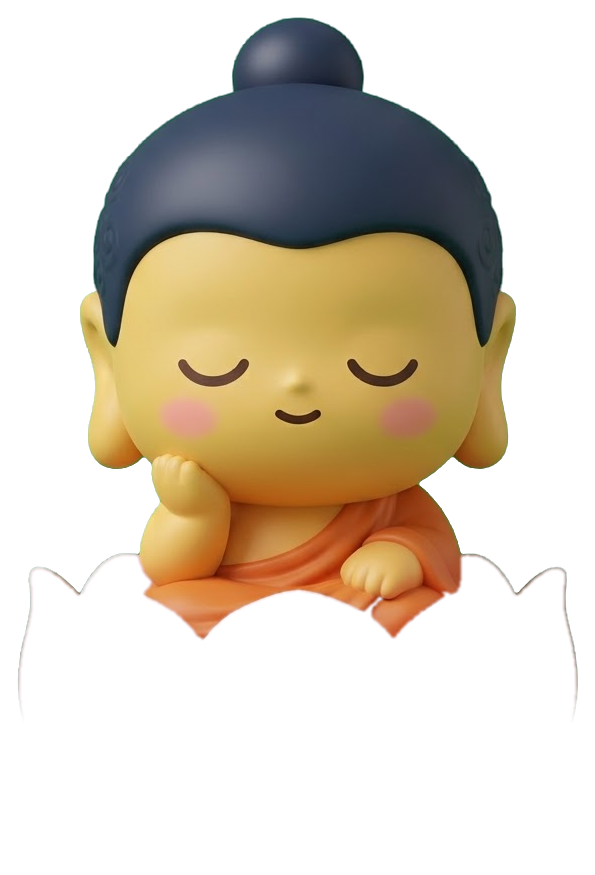
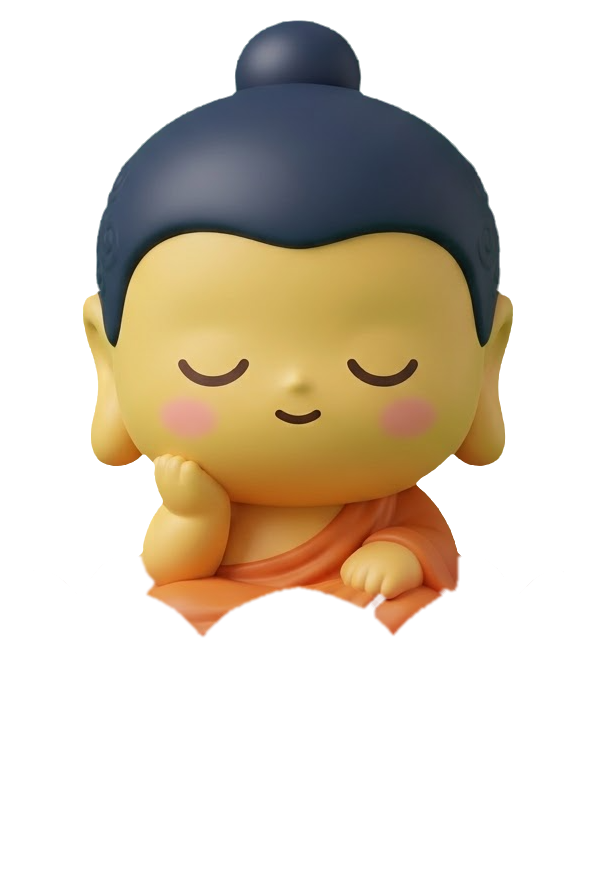
방들이 가운데로 선다 · 키캡 잿빛 테와 눌림 틈
형: 「위치 임마 이거랑 만다라랑 하심 호흡 멍 다 중앙에 정교하게」
    「저 밑에 깨지는 부분 고치고 키캡 눌렸을 때 이격 뜨는 것도 자연스럽게」

① **방이 옆으로 밀려 있었다.** 배경 덩이(.hip-bloom-b)가 오른쪽으로
   118px 삐져나와 판의 굴림 폭이 화면보다 넓었고, 갈래 띠가 「지금 방」
   알약을 보이려고 부른 scrollIntoView 가 **조상까지 전부** 굴렸다.
   방마다 알약 자리가 다르니 밀린 양도 달랐다 — 삼귀의 77, 하심 119.
   · 띠는 제 몸만 굴린다(scrollLeft 직접)
   · 판은 overflow-x: clip — hidden 은 코드로는 굴러간다, clip 은 통을
     아예 안 만든다
   두 군데를 다 막았다. 다섯 방 전부 가운데(390→195, 952→476) 확인.

② 방 알맹이가 통 안에서도 왼쪽에 붙어 있었다. .hip-room .hip-screen-mid
   를 stretch 로 두었던 탓인데, 여섯 방은 본래 **가운데로 서는 통** 안에
   쓰여 있다(불상·숫자·글귀에 가운데 정렬이 하나도 없다). center 로
   되돌리고, 통 하나로만 된 방(만다라·하심)은 폭을 꽉 펴 준다.

③ 키캡 잿빛 테 — 원화가 흰 바탕 렌더라 가장자리 두세 화소가 바탕과
   섞인 잿빛이다. 색을 고치면 또 곱창나니 **깎는다**(알파 침식 3).

④ 눌리면 꽃받침이 받는다. 부처상만 내려가서 뒤 꽃잎과 어깨 사이에 흰
   틈이 열렸다. 밑동은 붙박이로 두고 위턱만 1.8% 들어 올리면 꽃잎이
   먼저 가서 덮는다. 내려가는 폭도 3.4 → 2.4% 로.

diff --git a/src/app/api/lotus/spend/route.ts b/src/app/api/lotus/spend/route.ts
@@ -1,0 +1,102 @@
+// ─────────────────────────────────────────────────────────────
+// 연꽃을 쓴다 — 서버가 센다.
+//
+// 왜 이것이 필요한가 (적대 검토에서 나온 두 가지) —
+//
+// ① **환불 계산이 불가능했다.** 지갑이 `lotus` 정수 한 칸이라 첫 선물
+//    3송이·공덕으로 바꾼 것·돈 주고 산 것이 한 숫자에 뒤섞여 있었다.
+//    약관은 「무상분을 먼저 쓴 것으로 보고, 환불은 남은 유상분 기준」이라
+//    적어 두었는데 셈할 데이터가 없었다.
+//    → `paid`(산 것)와 `free`(받은 것)를 따로 센다. 쓸 때는 **무상분부터**.
+//
+// ② **여러 송이를 한 번에 못 뺐다.** 규칙이 「정확히 -1」만 허락해서,
+//    「연꽃 3송이」짜리 값은 코드로 아예 돌아가지 않았다.
+//    → 여러 송이 차감은 여기(서버)에서만 한다.
+//
+// 옛 지갑({lotus}만 있는 것)은 처음 손댈 때 전부 무상분으로 본다 —
+// 결제가 아직 열린 적이 없으니 그게 사실이다.
+//
+// 인증: Authorization: Bearer <파이어베이스 ID 토큰>
+// 몸통: { n: 1~10, why: "yeon-hap" 같은 짧은 까닭 }
+// ─────────────────────────────────────────────────────────────
+
+import { getAuth } from "firebase-admin/auth";
+import { FieldValue, getFirestore } from "firebase-admin/firestore";
+import { adminApp } from "@/lib/firebaseAdmin";
+import { isAdminAccount } from "@/lib/config";
+
+export const dynamic = "force-dynamic";
+export const runtime = "nodejs";
+
+export async function POST(req: Request) {
+  const app = adminApp();
+  if (!app) return Response.json({ error: "server-not-ready" }, { status: 503 });
+
+  const token = (req.headers.get("authorization") ?? "").replace(/^Bearer\s+/, "");
+  if (!token) return Response.json({ error: "no-token" }, { status: 401 });
+  let uid: string;
+  let email: string | undefined;
+  try {
+    const t = await getAuth(app).verifyIdToken(token);
+    uid = t.uid;
+    email = t.email;
+  } catch {
+    return Response.json({ error: "bad-token" }, { status: 401 });
+  }
+
+  const body = (await req.json().catch(() => null)) as
+    | { n?: unknown; why?: unknown }
+    | null;
+  const n = Math.floor(Number(body?.n ?? 1));
+  const why = typeof body?.why === "string" ? body.why.slice(0, 40) : "";
+  if (!Number.isFinite(n) || n < 1 || n > 10)
+    return Response.json({ error: "bad-count" }, { status: 400 });
+
+  // 뒷방 주인의 지갑은 줄지 않는다 — 초 켜기와 같은 셈
+  if (isAdminAccount({ uid, email }))
+    return Response.json({ ok: true, free: true, left: 999 });
+
+  const db = getFirestore(app);
+  const wallet = db.doc(`wallets/${uid}`);
+
+  try {
+    const left = await db.runTransaction(async (tx) => {
+      const s = await tx.get(wallet);
+      const d = s.exists ? s.data()! : null;
+      const lotus: number = typeof d?.lotus === "number" ? d.lotus : 0;
+      // 옛 지갑은 나뉘어 있지 않다 — 전부 무상분으로 본다(결제가 열린 적이
+      // 없었으니 사실이다). 이 한 줄이 옛것과 새것을 잇는다.
+      const paid: number = typeof d?.paid === "number" ? d.paid : 0;
+      const free: number = typeof d?.free === "number" ? d.free : lotus - paid;
+
+      if (lotus < n) return -1;
+
+      // **무상분 먼저.** 그래야 남은 유상분이 곧 환불 대상이 된다
+      const 무상차감 = Math.min(free, n);
+      const 유상차감 = n - 무상차감;
+      tx.set(
+        wallet,
+        {
+          lotus: lotus - n,
+          free: free - 무상차감,
+          paid: paid - 유상차감,
+        },
+        { merge: true }
+      );
+      // 무엇에 썼는지 남긴다 — 환불·분쟁 때 근거가 된다
+      tx.set(db.collection(`wallet-log/${uid}/list`).doc(), {
+        n: -n,
+        paid: -유상차감,
+        free: -무상차감,
+        why,
+        at: FieldValue.serverTimestamp(),
+      });
+      return lotus - n;
+    });
+
+    if (left < 0) return Response.json({ error: "need-lotus" }, { status: 402 });
+    return Response.json({ ok: true, left });
+  } catch {
+    return Response.json({ error: "write-failed" }, { status: 500 });
+  }
+}

diff --git a/src/app/hip.css b/src/app/hip.css
@@ -743,7 +743,13 @@ html[data-theme="light"] {
     color: #17140f;
     padding: calc(env(safe-area-inset-top, 0px) + 18px) 26px
       calc(env(safe-area-inset-bottom, 0px) + 18px);
-    overflow: hidden;
+    /* 판은 **옆으로 굴러서는 안 된다.**
+       hidden 은 손으로는 못 굴려도 코드로는 굴릴 수 있다. 배경 덩이가
+       오른쪽으로 조금 삐져나와 판의 굴림 폭이 화면보다 넓어져 있었고,
+       그 틈으로 판이 통째로 옆으로 밀려 방마다 내용이 딴 데 가 있었다.
+       clip 은 굴림통 자체를 안 만든다 — 코드로도 못 민다. */
+    overflow-x: clip;
+    overflow-y: hidden;
     -webkit-tap-highlight-color: transparent;
   }
   /* 종이 결 — 아주 옅게. 곱하기라 덮지 않고 눌러 준다 */
@@ -4035,7 +4041,25 @@ html[data-theme="light"] {
   }
   /* 한 장짜리 시절의 「통째로 찌그러뜨리기」는 걷는다 */
   .hip-keycap.on img { transform: none; }
-  .hip-keycap.on .hip-keycap-buddha { transform: translateY(3.4%) scaleY(0.982); }
+  /* ── 눌리면 꽃받침이 **받는다** ──────────────────────────
+     형: 「키캡 눌렸을 때 이격 뜨는 것도 자연스럽게 다시」
+
+     부처상만 내려가니 뒤 꽃잎과 어깨 사이에 **흰 틈**이 열렸다. 앉아
+     있던 몸이 빠진 자리를 아무도 안 메웠기 때문이다.
+     방석은 받으면 부푼다 — 밑동은 붙박이로 두고 위턱만 한 뼘 들어
+     올리면, 꽃잎이 먼저 가서 그 틈을 덮는다. 누른 느낌은 그대로고
+     틈만 사라진다. 내려가는 폭도 조금 줄여 둘이 같이 만난다. */
+  .hip-keycap-cup {
+    transform-origin: 50% 100%;
+    transition:
+      transform 0.34s cubic-bezier(0.2, 1.7, 0.35, 1),
+      filter 0.34s ease;
+  }
+  .hip-keycap.on .hip-keycap-buddha { transform: translateY(2.4%) scaleY(0.985); }
+  .hip-keycap.on .hip-keycap-cup {
+    transform: scaleY(1.018);
+    transition: transform 0.07s cubic-bezier(0.3, 0, 0.2, 1);
+  }
   /* 통(stack)이 높이를 쥐므로 그림 자체는 폭·높이를 안 잡는다 */
   .hip-keycap {
     height: var(--hip-obj-w);
@@ -4295,7 +4319,17 @@ html[data-theme="light"] {
   }
   /* 방 안에서 가로로 넘치는 것은 스스로 줄인다 — 만다라 그림판처럼 */
   .hip-room-body > * { max-width: 100%; }
-  .hip-room .hip-screen-mid { align-items: stretch; }
+  /* 형: 「위치 임마, 이거랑 만다라랑 하심 호흡 멍 다 중앙에 정교하게」
+     stretch 로 두었더니 여섯 방의 알맹이가 죄다 왼쪽에 붙었다. 방들은
+     본래 **가운데로 서는 통** 안에 쓰여 있었다(불상·숫자·글귀에 가운데
+     정렬이 하나도 없다 — 통이 해 주던 것이다).
+     가운데로 세운다. `w-full`·`max-w-sm` 을 단 것들은 제 폭을 스스로
+     말하고 있으니 가운데여도 납작해지지 않는다. */
+  .hip-room .hip-screen-mid { align-items: center; }
+  /* 가운데로 세우면 폭을 안 밝힌 아이는 제 알맹이만큼만 서게 된다.
+     방 알맹이 통(첫 겹)은 늘 꽉 펴 준다 — 만다라 그림판·하심 통이
+     여기에 기대 있다 */
+  .hip-room-body > div:only-child { width: 100%; }
 }
 
 /* ── 목탁 판을 한 화면에 ───────────────────────────────────────

diff --git a/src/components/HipLanes.tsx b/src/components/HipLanes.tsx
@@ -79,9 +79,19 @@ export default function HipLanes({
     살피기();
     el.addEventListener("scroll", 살피기, { passive: true });
     window.addEventListener("resize", 살피기);
-    // 지금 자리가 띠 밖에 있으면 끌어다 놓는다 — 어디 있는지부터 보여야 한다
+    // 지금 자리가 띠 밖에 있으면 끌어다 놓는다 — 어디 있는지부터 보여야 한다.
+    //
+    // scrollIntoView 로 하면 안 된다. 그것은 **조상까지 전부** 굴린다.
+    // 판(.hip-screen)이 배경 덩이 때문에 가로로 조금 넘쳐 있었는데, 띠가
+    // 알약을 보이게 하려고 부를 때마다 판이 통째로 옆으로 밀렸다 —
+    // 방마다 알약 자리가 다르니 밀린 양도 달라서, 삼귀의는 77, 하심은
+    // 119. 형: 「위치 임마, 만다라랑 하심 호흡 멍 다 중앙에」.
+    // 띠 제 몸만 굴린다.
     const on = el.querySelector<HTMLElement>('[data-on="1"]');
-    on?.scrollIntoView({ block: "nearest", inline: "center" });
+    if (on) {
+      const 가고픈 = on.offsetLeft + on.offsetWidth / 2 - el.clientWidth / 2;
+      el.scrollLeft = Math.max(0, Math.min(가고픈, el.scrollWidth - el.clientWidth));
+    }
     return () => {
       el.removeEventListener("scroll", 살피기);
       window.removeEventListener("resize", 살피기);

diff --git a/src/app/globals.css b/src/app/globals.css
@@ -903,3 +903,9 @@ html[data-focus="1"] #scroll-box {
 /* 손대기 */
 
 /* 손대기 */
+
+/* 손대기 */
+
+/* 손대기 */
+
+/* 손대기 */
